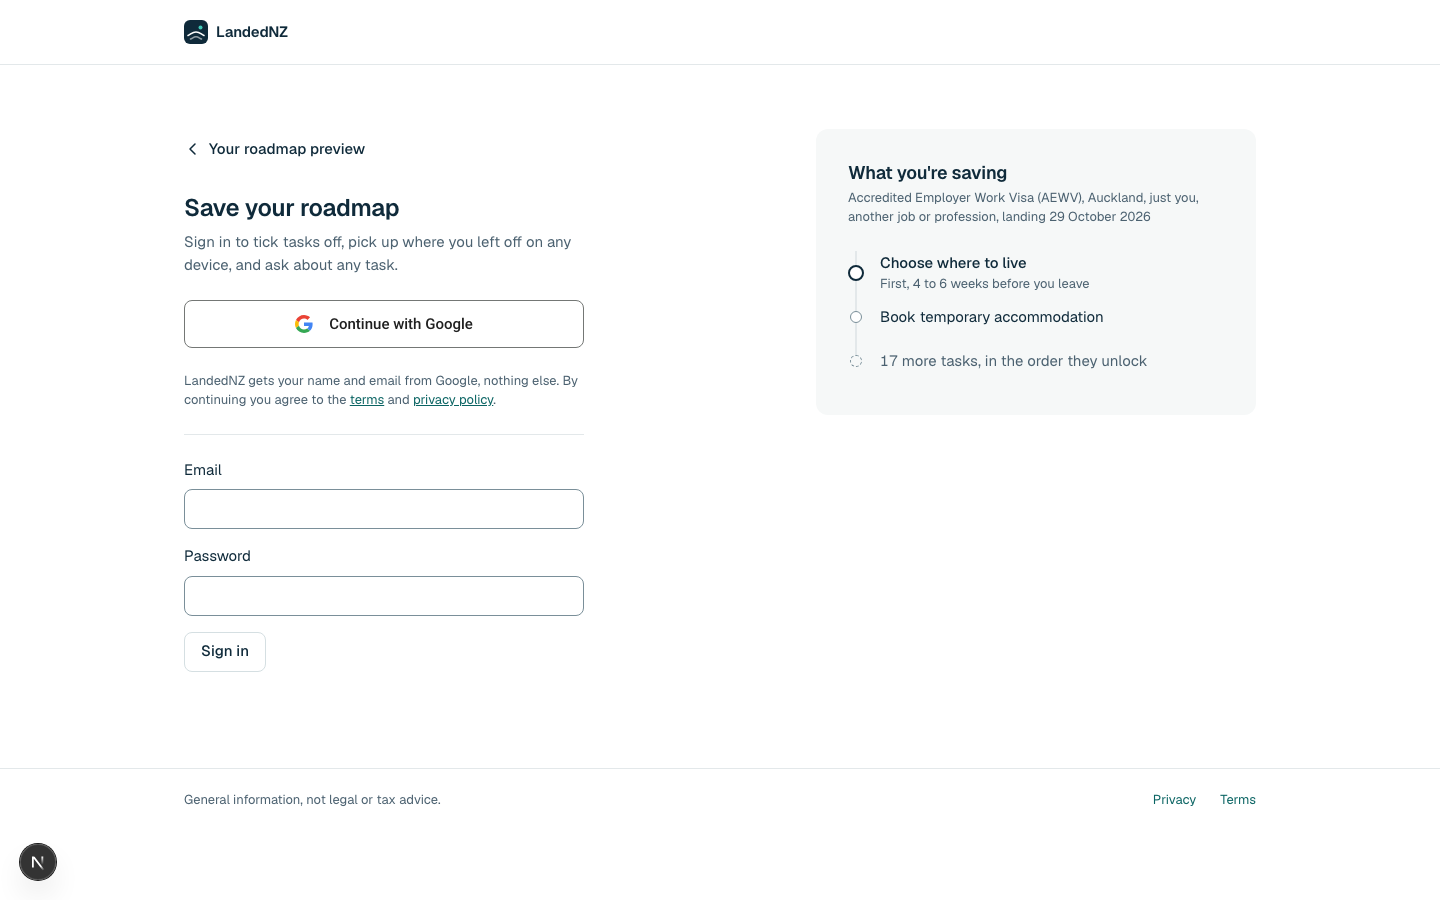
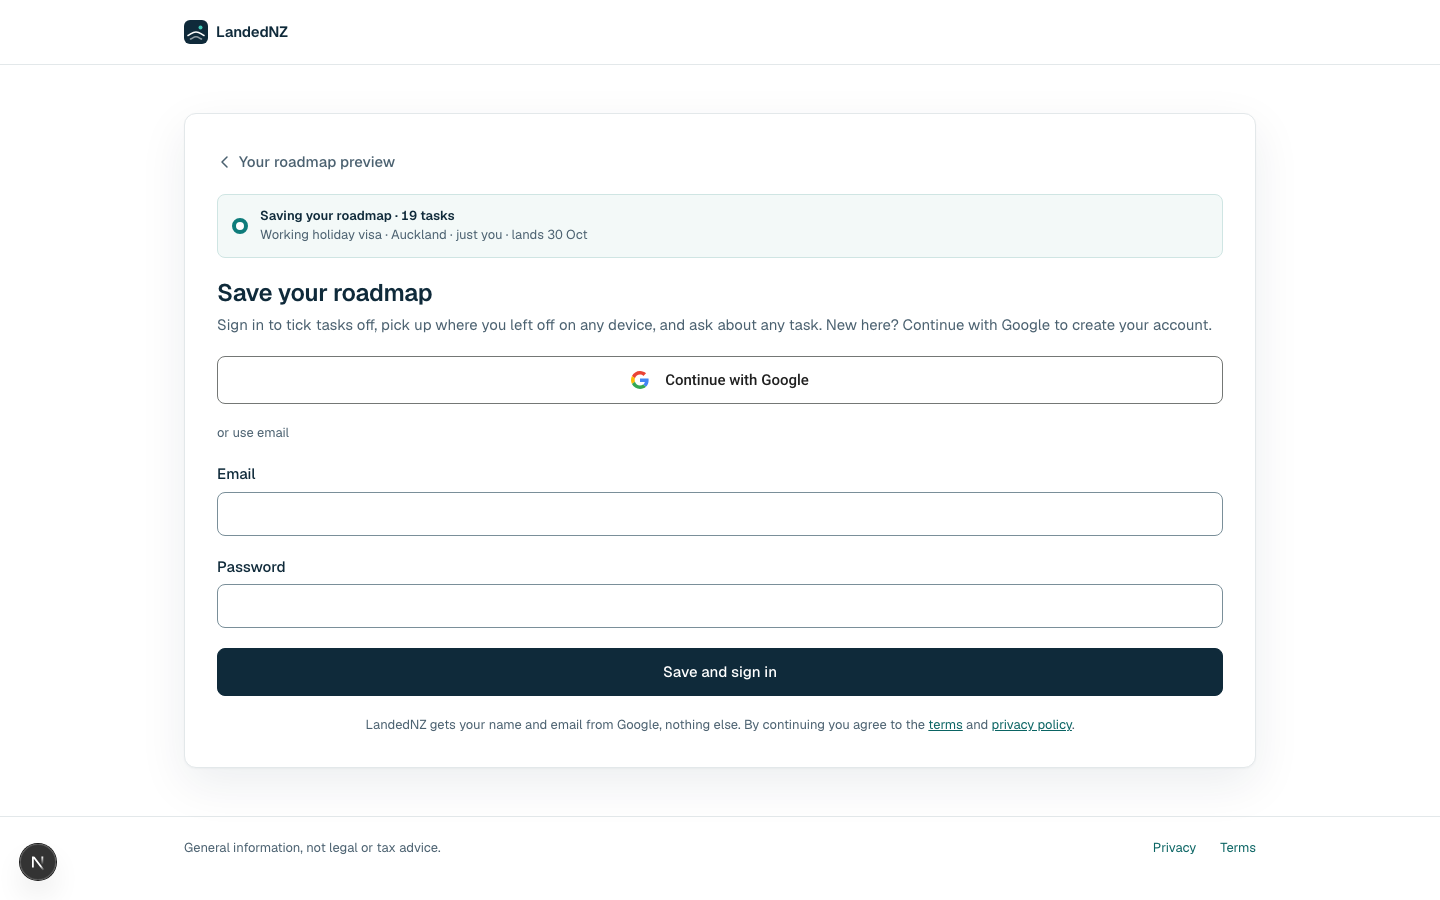
feat(web): sign in and save match their boards

diff --git a/apps/web/src/app/signin/sign-in-form.tsx b/apps/web/src/app/signin/sign-in-form.tsx
@@ -3,18 +3,15 @@
 import { useEffect, useState } from "react";
 import Link from "next/link";
 import { useSearchParams } from "next/navigation";
-import type { OnboardingPreviewResponse } from "@landednz/types";
-import { PREVIEW_META, previewTitle } from "@/components/onboarding/preview-route";
-import { Waypoint } from "@/components/route/waypoint";
-import { Button, buttonVariants } from "@/components/ui/button";
+import { Button } from "@/components/ui/button";
+import { Card } from "@/components/ui/card";
 import { Field } from "@/components/ui/field";
 import { getRoadmapPreview } from "@/lib/api";
-import { answersSummary, type Answers } from "@/lib/answers";
+import { answersShort, type Answers } from "@/lib/answers";
 import { createClient } from "@/lib/supabase/client";
 import { safeRedirect } from "@/lib/safe-redirect";
-import { cn } from "@/lib/utils";
 
-function SignInForm() {
+function SignInForm({ title }: { title: string }) {
   const searchParams = useSearchParams();
   const redirectTo = safeRedirect(searchParams.get("redirect"));
   const [error, setError] = useState(searchParams.get("error"));
@@ -56,112 +53,80 @@ function SignInForm() {
 
   return (
     <>
+      <div className="flex flex-col gap-1.5">
+        <h1 className="text-title">{title}</h1>
+        <p className="text-muted">Sign in to tick tasks off, pick up where you left off on any device, and ask about any task. New here? Continue with Google to create your account.</p>
+      </div>
       {error && <p role="alert" className="rounded-surface border border-ink p-4">{error}</p>}
       {/* Google's branding rules, not Precise tokens: see .gsi in globals.css */}
-      <button type="button" className="gsi" onClick={signInWithGoogle}>
+      <button type="button" className="gsi w-full" onClick={signInWithGoogle}>
         Continue with Google
       </button>
-      <p className="text-small text-muted">
+      {passwordEnabled && (
+        <>
+          <div className="or-rule text-small text-muted">or use email</div>
+          <form action={signInWithPassword} className="flex flex-col gap-5 max-narrow:gap-4">
+            <label className="flex flex-col gap-1.5 font-medium">
+              Email
+              <Field name="email" type="email" autoComplete="email" spellCheck={false} required className="min-h-11 font-normal" />
+            </label>
+            <label className="flex flex-col gap-1.5 font-medium">
+              Password
+              <Field name="password" type="password" autoComplete="current-password" required className="min-h-11 font-normal" />
+            </label>
+            <Button type="submit" size="lg" disabled={pending} className="w-full">
+              {title === "Sign in" ? "Sign in" : "Save and sign in"}
+            </Button>
+          </form>
+        </>
+      )}
+      <p className="text-center text-small text-muted">
         <span translate="no">LandedNZ</span> gets your name and email from Google, nothing else. By continuing you agree to the{" "}
         {/* Underlined: inside muted text, colour alone does not mark a link (axe link-in-text-block) */}
         <Link href="/terms" className="underline">terms</Link> and <Link href="/privacy" className="underline">privacy policy</Link>.
       </p>
-      {passwordEnabled && (
-        <form action={signInWithPassword} className="flex flex-col gap-4 border-t border-hairline pt-6">
-          <label className="flex flex-col gap-2">
-            Email
-            <Field name="email" type="email" autoComplete="email" spellCheck={false} required />
-          </label>
-          <label className="flex flex-col gap-2">
-            Password
-            <Field name="password" type="password" autoComplete="current-password" required />
-          </label>
-          <Button type="submit" variant="quiet" disabled={pending} className="self-start">
-            Sign in
-          </Button>
-        </form>
-      )}
     </>
   );
 }
 
-type Tasks = OnboardingPreviewResponse["tasks"];
-
-// The roadmap the answers cookie will save: its first two tasks and how many follow
-function Saving({ answers }: { answers: Answers }) {
-  const [tasks, setTasks] = useState<Tasks | null>(null);
+// What the answers cookie will save: the task count and the answers in one line
+function SaveChip({ answers }: { answers: Answers }) {
+  const [count, setCount] = useState<number | null>(null);
 
   useEffect(() => {
-    // On failure the summary alone says what is being saved
-    getRoadmapPreview(answers).then(r => setTasks(r.tasks), () => {});
+    // On failure the chip just says what is being saved
+    getRoadmapPreview(answers).then(r => setCount(r.tasks.length), () => {});
   }, [answers]);
 
-  const rest = tasks ? tasks.length - 2 : 0;
   return (
-    <aside aria-labelledby="saving" className="flex flex-col gap-4 self-start rounded-surface bg-wash p-8">
-      <div className="flex flex-col gap-1">
-        <h2 id="saving" className="text-section">What you&apos;re saving</h2>
-        <p className="text-small text-muted">{answersSummary(answers)}</p>
+    <div className="flex items-center gap-3 rounded-control border border-tint-border bg-tint px-3.5 py-3">
+      <span aria-hidden="true" className="size-4 flex-none rounded-full border-4 border-teal bg-white" />
+      <div className="flex min-w-0 flex-col">
+        <span className="text-small font-semibold">Saving your roadmap{count !== null && ` · ${count} tasks`}</span>
+        <span className="text-small text-muted">{answersShort(answers)}</span>
       </div>
-      {tasks && (
-        <ol className="route-legs on-wash m-0 list-none p-0 pt-2 [&>li]:pb-0">
-          {tasks.slice(0, 2).map((t, i) => (
-            <li key={t.taskId}>
-              <div className="route-step">
-                <span className="route-dot" aria-hidden="true">
-                  <Waypoint state={i === 0 ? "current" : "available"} />
-                </span>
-                <div className="flex min-h-11 flex-wrap items-center gap-x-4">
-                  <span className={cn(i === 0 && "font-medium")}>{previewTitle(t.taskId, t.name)}</span>
-                  {i === 0 && PREVIEW_META[t.taskId] && <span className="text-small text-muted">{PREVIEW_META[t.taskId]}</span>}
-                </div>
-              </div>
-            </li>
-          ))}
-          {rest > 0 && (
-            <li className="is-folded">
-              <div className="route-step">
-                <span className="route-dot" aria-hidden="true">
-                  <Waypoint state="locked" />
-                </span>
-                <div className="flex min-h-11 items-center">
-                  <span className="text-muted">{rest} more {rest === 1 ? "task" : "tasks"}, in the order they unlock</span>
-                </div>
-              </div>
-            </li>
-          )}
-        </ol>
-      )}
-    </aside>
+    </div>
   );
 }
 
 // With onboarding answers the page saves them; without, it is a plain sign-in
 export function SignIn({ answers }: { answers: Answers | null }) {
   return (
-    // Plain sign-in has no side panel, so the lone form is centred instead of hugging the left edge
-    <main
-      className={cn(
-        "container-page grid gap-16 pt-16 pb-24 max-split:grid-cols-1 max-split:gap-12 max-split:pt-8",
-        answers ? "grid-cols-signin justify-between" : "grid-cols-signin-solo justify-center",
-      )}
-    >
-      <div className="flex flex-col gap-6">
+    <main className="container-page flex justify-center py-12 max-narrow:px-4 max-narrow:pt-6 max-narrow:pb-8">
+      <Card as="div" className="w-full max-w-auth gap-5 p-8 max-narrow:gap-4.5 max-narrow:px-5 max-narrow:py-6">
         {answers && (
-          <Link href="/onboarding/preview" className={cn(buttonVariants({ variant: "ghost" }), "-ml-4 self-start")}>
-            <svg aria-hidden="true" width="16" height="16" viewBox="0 0 16 16" fill="none">
-              <path d="M10 3 5 8l5 5" stroke="currentColor" strokeWidth="1.5" strokeLinecap="round" strokeLinejoin="round" />
-            </svg>
-            Your roadmap preview
-          </Link>
+          <>
+            <Link href="/onboarding/preview" className="-mb-1 inline-flex h-8 items-center gap-1.5 self-start font-medium text-muted no-underline hover:text-ink">
+              <svg aria-hidden="true" width="16" height="16" viewBox="0 0 16 16" fill="none">
+                <path d="M10 3 5 8l5 5" stroke="currentColor" strokeWidth="1.5" strokeLinecap="round" strokeLinejoin="round" />
+              </svg>
+              Your roadmap preview
+            </Link>
+            <SaveChip answers={answers} />
+          </>
         )}
-        <div className="flex flex-col gap-2">
-          <h1 className="text-title">{answers ? "Save your roadmap" : "Sign in"}</h1>
-          <p className="text-muted">Sign in to tick tasks off, pick up where you left off on any device, and ask about any task.</p>
-        </div>
-        <SignInForm />
-      </div>
-      {answers && <Saving answers={answers} />}
+        <SignInForm title={answers ? "Save your roadmap" : "Sign in"} />
+      </Card>
     </main>
   );
 }

diff --git a/apps/web/src/app/signin/sign-in.test.tsx b/apps/web/src/app/signin/sign-in.test.tsx
@@ -1,4 +1,4 @@
-import { render, screen, within } from '@testing-library/react'
+import { render, screen } from '@testing-library/react'
 import { afterEach, describe, expect, it, vi } from 'vitest'
 import type { Answers } from '@/lib/answers'
 import { phaseOf } from '@/test/roadmap-fixtures'
@@ -18,18 +18,13 @@ const priya: Answers = { visaType: 'AEWV', city: 'AUCKLAND', familySituation: 'S
 afterEach(() => vi.unstubAllEnvs())
 
 describe('SignIn', () => {
-  it('with answers: back to the preview, heading and what you are saving', async () => {
+  it('with answers: back to the preview, heading and the save chip', async () => {
     render(<SignIn answers={priya} />)
     expect(screen.getByRole('link', { name: 'Your roadmap preview' })).toHaveAttribute('href', '/onboarding/preview')
     expect(screen.getByRole('heading', { level: 1 })).toHaveTextContent('Save your roadmap')
-    const aside = screen.getByRole('complementary', { name: "What you're saving" })
-    expect(within(aside).getByText('Accredited Employer Work Visa (AEWV), Auckland, just you, another job or profession, landing 14 January 2027')).toBeInTheDocument()
-    const rows = (await within(aside).findAllByRole('listitem')).map(li => li.textContent)
-    expect(rows).toEqual([
-      'Choose where to liveFirst, 4 to 6 weeks before you leave',
-      'Book temporary accommodation',
-      '18 more tasks, in the order they unlock',
-    ])
+    expect(await screen.findByText('Saving your roadmap · 20 tasks')).toBeInTheDocument()
+    expect(screen.getByText('Accredited Employer Work Visa (AEWV) · Auckland · just you · lands 14 Jan')).toBeInTheDocument()
+    expect(screen.queryByRole('complementary')).toBeNull()
   })
 
   it('without answers: just Sign in', () => {
@@ -55,5 +50,6 @@ describe('SignIn', () => {
     render(<SignIn answers={null} />)
     expect(screen.getByLabelText('Email')).toBeInTheDocument()
     expect(screen.getByLabelText('Password')).toBeInTheDocument()
+    expect(screen.getByRole('button', { name: 'Sign in' })).toBeInTheDocument()
   })
 })

diff --git a/apps/web/src/app/globals.css b/apps/web/src/app/globals.css
@@ -15,6 +15,8 @@
   --color-teal-hover: #074B4A;
   --color-ink-hover: #24465A;
   --color-avatar: #E8F2F1;
+  --color-tint: #F3F9F8;
+  --color-tint-border: #CFE5E3;
   --color-mark: #3FC9B7;
   --color-white: #FFFFFF;
   --color-track: #C9D3D7;
@@ -60,13 +62,12 @@
   --container-page: 1120px;
   --container-hero-title: 560px;
   --container-hero-lede: 520px;
+  --container-auth: 460px;
   --container-question: 600px;
   --container-preview: 680px;
   --container-lede: 640px;
   --container-legal: 680px;
   --grid-template-columns-hero: minmax(0, 1fr) minmax(0, 480px);
-  --grid-template-columns-signin: minmax(0, 400px) minmax(0, 440px);
-  --grid-template-columns-signin-solo: minmax(0, 400px);
   --grid-template-columns-rail: 440px minmax(0, 1fr);
   --grid-template-columns-itin: 32px minmax(0, 1fr) auto;
   --grid-template-columns-home: minmax(0, 1fr) 440px;
@@ -157,6 +158,10 @@
   .route-dot-card { height: 72px; }
   /* On a wash surface the locked dot is hollow on wash, not white */
   .route-legs.on-wash .wp-locked { background: var(--color-wash); }
+
+  /* "or use email" divider: text between two hairlines */
+  .or-rule { display: flex; align-items: center; gap: 12px; }
+  .or-rule::before, .or-rule::after { content: ""; flex: 1; height: 1px; background: var(--color-hairline); }
 
   /* Google sign-in button: Google's branding (Roboto 500, #747775 border, the four-colour G), the one CW01 exception */
   .gsi {

diff --git a/apps/web/src/lib/answers.test.ts b/apps/web/src/lib/answers.test.ts
@@ -1,5 +1,5 @@
 import { afterEach, describe, expect, it, vi } from 'vitest'
-import { answersSummary, decodeAnswers, encodeAnswers, parseAnswers, type Answers } from './answers'
+import { answersShort, answersSummary, decodeAnswers, encodeAnswers, parseAnswers, type Answers } from './answers'
 
 const priya: Answers = {
   visaType: 'AEWV',
@@ -75,5 +75,12 @@ describe('answersSummary', () => {
     expect(answersSummary({ ...priya, city: 'OTHER', familySituation: 'FAMILY_WITH_CHILDREN' })).toBe(
       'Accredited Employer Work Visa (AEWV), you, your partner and your children, another job or profession, landing 14 January 2027',
     )
+  })
+})
+
+describe('answersShort', () => {
+  it('is the one-line form for the save chip', () => {
+    expect(answersShort(priya)).toBe('Accredited Employer Work Visa (AEWV) · Auckland · just you · lands 14 Jan')
+    expect(answersShort({ ...priya, city: 'OTHER' })).toBe('Accredited Employer Work Visa (AEWV) · just you · lands 14 Jan')
   })
 })

diff --git a/apps/web/src/lib/answers.ts b/apps/web/src/lib/answers.ts
@@ -11,7 +11,7 @@ import {
   type Occupation,
   type VisaType,
 } from '@landednz/types'
-import { longDay } from './nz-date'
+import { longDay, shortDay } from './nz-date'
 
 export type Answers = OnboardingPreviewRequest
 
@@ -115,4 +115,14 @@ export function answersSummary(a: Answers): string {
   ]
   const text = parts.filter(Boolean).join(', ')
   return text.charAt(0).toUpperCase() + text.slice(1)
+}
+
+// "Working holiday visa · Auckland · just you · lands 30 Oct"
+export function answersShort(a: Answers): string {
+  return [
+    answerLabel('visaType', a.visaType),
+    a.city === 'OTHER' ? '' : answerLabel('city', a.city),
+    WHO[a.familySituation],
+    `lands ${shortDay(a.arrivalDate)}`,
+  ].filter(Boolean).join(' · ')
 }

diff --git a/docs/design/r1-final/gate/critique-signin.md b/docs/design/r1-final/gate/critique-signin.md
@@ -1,0 +1,16 @@
+⚠ DEGRADED: single-context (task rules forbid dispatching sub-agents; assessments A and B ran inline, A first)
+
+# Critique: /signin and Save your roadmap (S1)
+
+Target: apps/web/src/app/signin/sign-in-form.tsx. Shots: signin-1440/390.png, save-1440/390.png beside the *-board.png files.
+
+## Assessment A (design review)
+- Specificity: one centred card, a teal "Saving your roadmap · n tasks" chip with the answers line. It carries the product's own state, not a generic auth template. Matches PsSignIn/PsSave.
+- Hierarchy: h1, one line of copy, Google, divider, fields, one primary 48 px button, consent last. One primary per screen.
+- Cognitive load: 2 auth routes, 2 fields. Fine.
+- Strengths: back link and chip tell the person what is being saved; Google button keeps Google branding; targets are 44-48 px.
+- Differences from boards: task count is live data (19 vs board 24), fields empty (board shows filled sample), footer follows the page layout. No design differences.
+- P0: none. P1: none. P2: none.
+
+## Assessment B (detector)
+`impeccable detect --json apps/web/src/app/signin/sign-in-form.tsx` returned `[]`. Visual check at 1440x900 and 390x844: no overflow, 16 px phone gutter, card 460 px wide at 1440.
